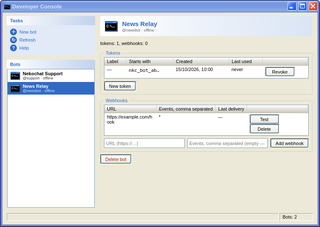
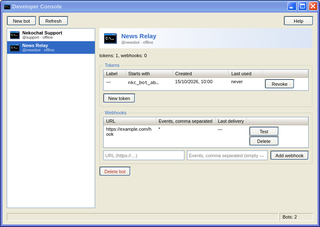
Developer Console: a plain toolbar of XP buttons instead of the task pane, the bot list without a title strip

diff --git a/addons/bots/bots.js b/addons/bots/bots.js
@@ -9,11 +9,11 @@ const rawServer = new URLSearchParams(location.search || location.hash.slice(1))
 const server = /^https?:\/\//i.test(rawServer) ? rawServer.replace(/\/+$/, '') : 'https://nekochat.komdu.is-cool.dev';
 const esc = value => String(value ?? '').replace(/[&<>"']/g, char => ({ '&': '&amp;', '<': '&lt;', '>': '&gt;', '"': '&quot;', "'": '&#039;' })[char]);
 const words = {
-  ru: { tasks: 'Задачи', botsTitle: 'Боты', count: 'Ботов: {n}', help: 'Справка', title: 'Консоль разработчика', loginTitle: 'Вход', loginHint: 'Нужен вход в аккаунт Nekochat на этом сервере: боты принадлежат аккаунту. Если вы уже вошли в клиенте, этого окна вы не увидите.', username: 'Имя пользователя', password: 'Пароль', signIn: 'Войти', logout: 'Выйти', refresh: 'Обновить', newBot: 'Новый бот', botUsername: 'Имя бота (3–32 символа: буквы, цифры, _ . -)', botName: 'Отображаемое имя', create: 'Создать', cancel: 'Отмена', close: 'Закрыть', minimize: 'Свернуть', maximize: 'Развернуть', ok: 'ОК', copy: 'Копировать', copied: 'Скопировано',
+  ru: { count: 'Ботов: {n}', help: 'Справка', title: 'Консоль разработчика', loginTitle: 'Вход', loginHint: 'Нужен вход в аккаунт Nekochat на этом сервере: боты принадлежат аккаунту. Если вы уже вошли в клиенте, этого окна вы не увидите.', username: 'Имя пользователя', password: 'Пароль', signIn: 'Войти', logout: 'Выйти', refresh: 'Обновить', newBot: 'Новый бот', botUsername: 'Имя бота (3–32 символа: буквы, цифры, _ . -)', botName: 'Отображаемое имя', create: 'Создать', cancel: 'Отмена', close: 'Закрыть', minimize: 'Свернуть', maximize: 'Развернуть', ok: 'ОК', copy: 'Копировать', copied: 'Скопировано',
     wrongLogin: 'Неверное имя или пароль.', loading: 'Загрузка…', done: 'Готово.', noBots: 'Ботов пока нет. Нажмите «Новый бот».', pickBot: 'Выберите бота слева.', bot: 'Бот', state: 'Состояние', online: 'в сети', offline: 'не в сети', tokens: 'Токены', webhooks: 'Вебхуки', remove: 'Удалить бот', revoke: 'Отозвать', revoked: 'отозван', label: 'Метка', prefix: 'Начало', created: 'Создан', lastUsed: 'Использован', never: 'ни разу', newToken: 'Новый токен', addWebhook: 'Добавить вебхук', url: 'Адрес (https://…)', events: 'События через запятую (пусто — все)', test: 'Проверить', delete: 'Удалить', lastDelivery: 'Последняя доставка', noTokens: 'Токенов нет.', noWebhooks: 'Вебхуков нет.', counts: 'токенов: {tokens}, вебхуков: {webhooks}',
     tokenTitle: 'Токен бота', tokenNote: 'Скопируйте токен сейчас: больше он не покажется. Он работает как пароль бота (Authorization: Bearer … или /ws?token=…).', secretTitle: 'Секрет вебхука', secretNote: 'Скопируйте секрет сейчас: больше он не покажется. Им подписывается каждый вызов (X-Neko-Signature: sha256=HMAC-SHA256).',
     confirmBot: 'Удалить бота {name} вместе с его токенами, вебхуками и сообщениями? Это нельзя отменить.', confirmRevoke: 'Отозвать этот токен? Бот с ним перестанет работать.', confirmWebhook: 'Удалить этот вебхук?', tokenLabel: 'Метка токена (необязательно)', testOk: 'Вебхук ответил: HTTP {status}.', testFail: 'Вебхук не ответил как надо: HTTP {status}.', sessionLost: 'Сессия закончилась. Войдите снова.' },
-  en: { tasks: 'Tasks', botsTitle: 'Bots', count: 'Bots: {n}', help: 'Help', title: 'Developer Console', loginTitle: 'Sign in', loginHint: 'Sign in with your Nekochat account on this server: bots belong to the account. If you are already signed in in the app, you will not see this.', username: 'User name', password: 'Password', signIn: 'Sign in', logout: 'Sign out', refresh: 'Refresh', newBot: 'New bot', botUsername: 'Bot user name (3–32 characters: letters, digits, _ . -)', botName: 'Display name', create: 'Create', cancel: 'Cancel', close: 'Close', minimize: 'Minimize', maximize: 'Maximize', ok: 'OK', copy: 'Copy', copied: 'Copied',
+  en: { count: 'Bots: {n}', help: 'Help', title: 'Developer Console', loginTitle: 'Sign in', loginHint: 'Sign in with your Nekochat account on this server: bots belong to the account. If you are already signed in in the app, you will not see this.', username: 'User name', password: 'Password', signIn: 'Sign in', logout: 'Sign out', refresh: 'Refresh', newBot: 'New bot', botUsername: 'Bot user name (3–32 characters: letters, digits, _ . -)', botName: 'Display name', create: 'Create', cancel: 'Cancel', close: 'Close', minimize: 'Minimize', maximize: 'Maximize', ok: 'OK', copy: 'Copy', copied: 'Copied',
     wrongLogin: 'Wrong user name or password.', loading: 'Loading…', done: 'Done.', noBots: 'No bots yet. Click “New bot”.', pickBot: 'Pick a bot on the left.', bot: 'Bot', state: 'State', online: 'online', offline: 'offline', tokens: 'Tokens', webhooks: 'Webhooks', remove: 'Delete bot', revoke: 'Revoke', revoked: 'revoked', label: 'Label', prefix: 'Starts with', created: 'Created', lastUsed: 'Last used', never: 'never', newToken: 'New token', addWebhook: 'Add webhook', url: 'URL (https://…)', events: 'Events, comma separated (empty — all)', test: 'Test', delete: 'Delete', lastDelivery: 'Last delivery', noTokens: 'No tokens.', noWebhooks: 'No webhooks.', counts: 'tokens: {tokens}, webhooks: {webhooks}',
     tokenTitle: 'Bot token', tokenNote: 'Copy the token now: it is shown only once. It works as the bot’s password (Authorization: Bearer … or /ws?token=…).', secretTitle: 'Webhook secret', secretNote: 'Copy the secret now: it is shown only once. It signs every call (X-Neko-Signature: sha256=HMAC-SHA256).',
     confirmBot: 'Delete the bot {name} with its tokens, webhooks and messages? This cannot be undone.', confirmRevoke: 'Revoke this token? The bot using it stops working.', confirmWebhook: 'Delete this webhook?', tokenLabel: 'Token label (optional)', testOk: 'The webhook answered: HTTP {status}.', testFail: 'The webhook did not answer as expected: HTTP {status}.', sessionLost: 'The session ended. Sign in again.' },
@@ -125,8 +125,6 @@ $('#bots-login').onsubmit = async event => {
     $('#bots-login').hidden = true; $('#bots-panel').hidden = false; renderDetail(); await loadBots();
   } catch (error) { showLogin(error.message); }
 };
-// The task links are links, not buttons (the theme draws buttons as XP buttons); keys work like clicks.
-document.querySelectorAll('.bots-link').forEach(link => link.addEventListener('keydown', event => { if (event.key === 'Enter' || event.key === ' ') { event.preventDefault(); link.click(); } }));
 $('#bots-new').onclick = () => { $('#new-bot-username').value = ''; $('#new-bot-name').value = ''; $('#bots-create').showModal(); $('#new-bot-username').focus(); };
 $('#bots-create-form').onsubmit = async event => {
   if (event.submitter?.value !== 'create') return;

diff --git a/addons/bots/bots.css b/addons/bots/bots.css
@@ -32,17 +32,10 @@ html, body { width: 100%; height: 100%; margin: 0; overflow: hidden; background:
 .bots-dialog input[readonly] { width: 100%; font-family: Consolas, monospace; }
 
 /* Layout like an XP Explorer window: a task pane on the left, details on the right, a status bar. */
-.bots-split { display: flex; flex: 1; min-height: 0; gap: 10px; }
-.bots-side { display: flex; flex: none; width: 210px; flex-direction: column; gap: 10px; min-height: 0; }
-.bots-box { overflow: hidden; border-radius: 4px 4px 0 0; background: color-mix(in srgb, var(--xp-theme-highlight, #316ac5) 14%, #fff); }
-.bots-box h2 { margin: 0; padding: 5px 8px; background: linear-gradient(90deg, #fff, color-mix(in srgb, var(--xp-theme-highlight, #316ac5) 30%, #fff)); color: var(--xp-theme-highlight, #215dc6); font-size: 11px; font-weight: bold; }
-.bots-box-body { display: flex; flex-direction: column; gap: 3px; padding: 8px 8px 10px; }
-.bots-link { display: flex; align-items: center; gap: 6px; color: var(--xp-theme-highlight, #215dc6); cursor: pointer; }
-.bots-link:hover span, .bots-link:focus-visible span { text-decoration: underline; }
-.bots-link[hidden] { display: none; }
-.bots-glyph { display: inline-grid; place-items: center; flex: none; width: 16px; height: 16px; border-radius: 50%; background: var(--xp-theme-highlight, #215dc6); color: var(--xp-theme-highlighttext, #fff); font: bold 11px/1 Tahoma, sans-serif; font-style: normal; }
-.bots-box-list { display: flex; flex: 1; min-height: 0; flex-direction: column; }
-.bots-list-wrap { flex: 1; min-height: 0; overflow: auto; margin: 0 1px 1px; border: 1px solid #7f9db9; background: #fff; }
+.bots-split { display: flex; flex: 1; min-height: 0; gap: 8px; }
+.bots-list-wrap { flex: none; width: 210px; overflow: auto; border: 1px solid #7f9db9; background: #fff; }
+.bots-toolbar { display: flex; flex: none; gap: 6px; }
+.bots-spacer { flex: 1; }
 .bots-list-wrap .bots-table td { padding: 3px 6px; border-bottom: 0; }
 .bots-list-wrap .bots-table tr[data-id] { cursor: default; }
 .bots-list-wrap .bots-table tr[data-id]:hover td { background: color-mix(in srgb, var(--xp-theme-highlight, #316ac5) 12%, #fff); }

diff --git a/addons/bots/bots.html b/addons/bots/bots.html
@@ -19,16 +19,9 @@
         <p class="bots-error" id="bots-login-error" role="alert"></p>
       </form>
       <section class="bots-panel" id="bots-panel" hidden>
+        <div class="bots-toolbar"><button type="button" id="bots-new" data-t="newBot">Новый бот</button><button type="button" id="bots-refresh" data-t="refresh">Обновить</button><span class="bots-spacer"></span><button type="button" id="bots-help" data-t="help">Справка</button><button type="button" id="bots-logout" data-t="logout">Выйти</button></div>
         <div class="bots-split">
-          <aside class="bots-side">
-            <div class="bots-box"><h2 data-t="tasks">Задачи</h2><div class="bots-box-body">
-              <a class="bots-link" id="bots-new" role="button" tabindex="0"><i class="bots-glyph">＋</i><span data-t="newBot">Новый бот</span></a>
-              <a class="bots-link" id="bots-refresh" role="button" tabindex="0"><i class="bots-glyph">↻</i><span data-t="refresh">Обновить</span></a>
-              <a class="bots-link" id="bots-help" role="button" tabindex="0"><i class="bots-glyph">?</i><span data-t="help">Справка</span></a>
-              <a class="bots-link" id="bots-logout" role="button" tabindex="0"><i class="bots-glyph">⏻</i><span data-t="logout">Выйти</span></a>
-            </div></div>
-            <div class="bots-box bots-box-list"><h2 data-t="botsTitle">Боты</h2><div class="bots-list-wrap"><table class="bots-table" id="bots-list"></table></div></div>
-          </aside>
+          <div class="bots-list-wrap"><table class="bots-table" id="bots-list"></table></div>
           <div class="bots-detail" id="bots-detail"></div>
         </div>
         <div class="bots-statusbar"><span class="bots-status" id="bots-status" role="status"></span><span class="bots-count" id="bots-count"></span></div>
